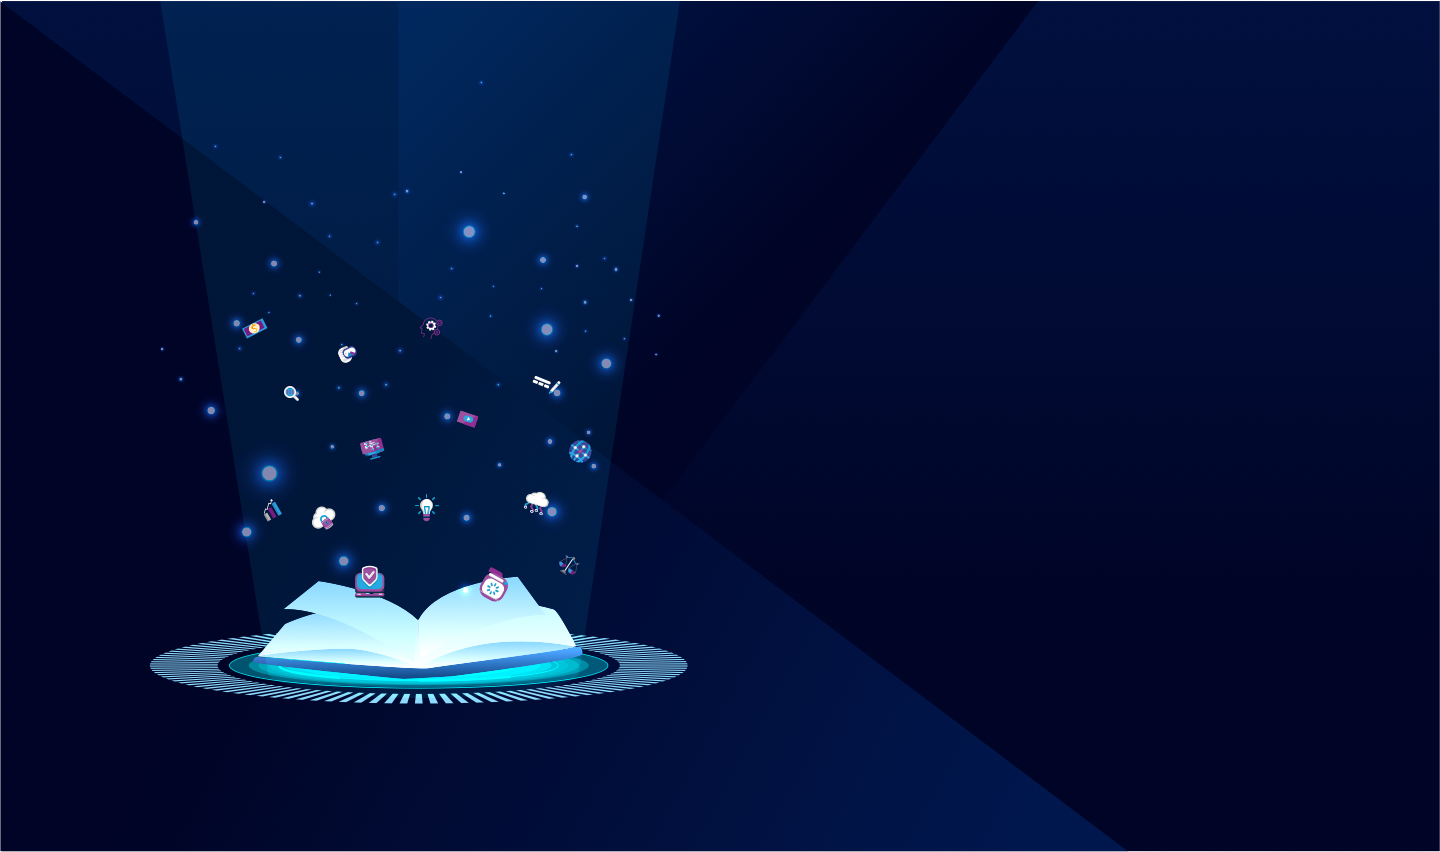
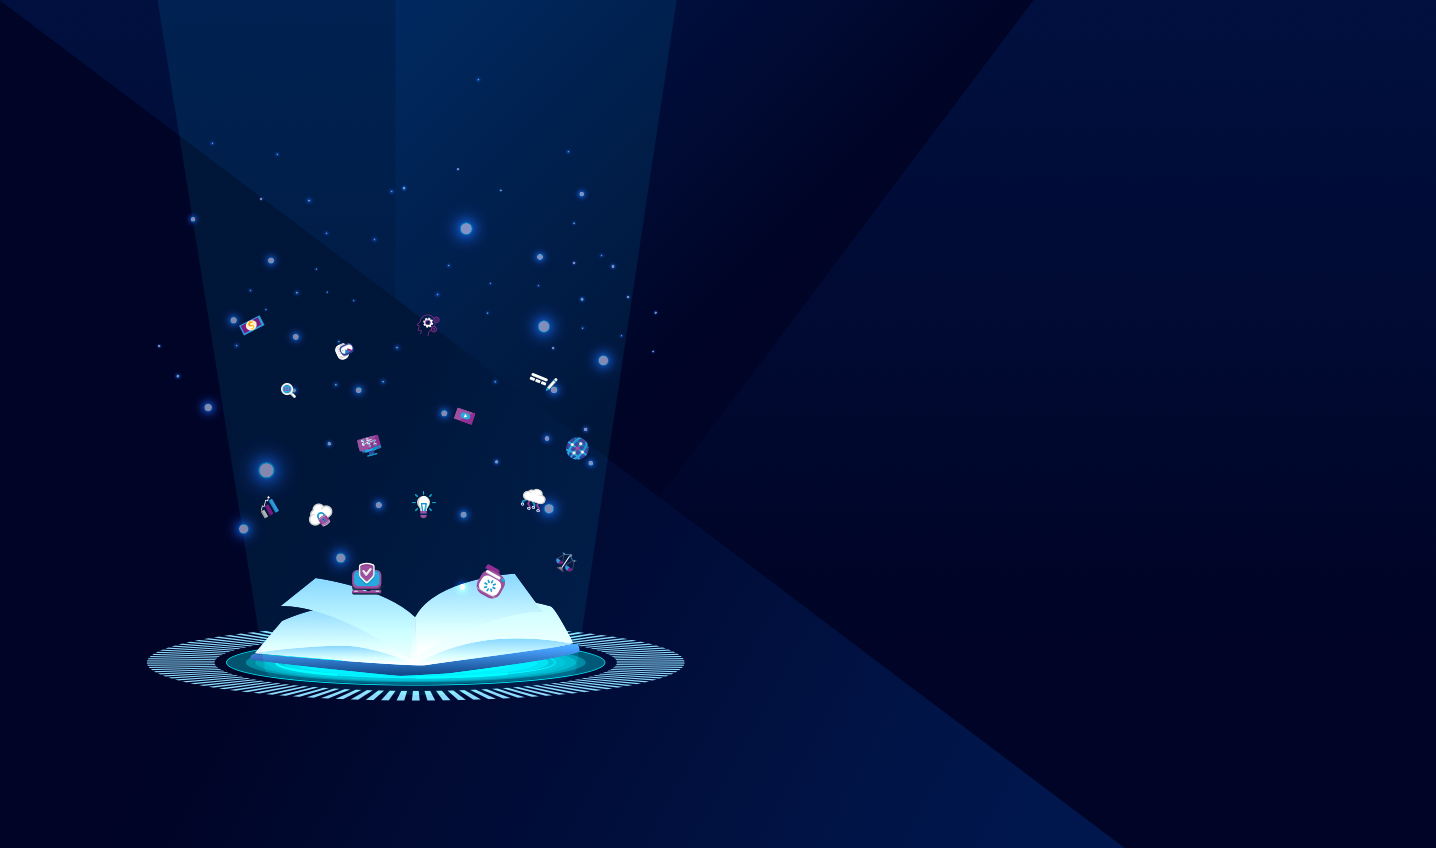
updates

diff --git a/styles/css.css b/styles/css.css
@@ -59,16 +59,6 @@ p {
   font-weight: normal;
 }
 
-.style1 {
-  font-size: 46px;
-  color: #fff;
-}
-
-.style2 {
-  font-size: 46px;
-  color: #FFA200;
-}
-
 .book_desc {
   text-align: center;
 }
@@ -187,7 +177,7 @@ p {
   background-attachment: fixed;
   background-size: cover;
   display: flex;
-  justify-content: flex-end;
+  justify-content: center;
   align-items: center;
 }
 
@@ -196,11 +186,11 @@ p {
 }
 
 .landing .container {
-  padding: 100px;
+  width: 80%;
+  padding: 100px 0;
   display: flex;
   flex-direction: column;
-  width: 45%;
-  margin-right: 5%;
+  align-items: center;
   flex-wrap: wrap;
 }
 
@@ -208,22 +198,26 @@ p {
   text-align: center;
   color: #f9f9f9;
   text-shadow: 2px 2px 8px #000000;
+  font-size: 36px;
   line-height: 72px;
+  max-width: 900px;
 }
 
 .email_grab {
-  align-self: center;
+  align-self: flex-end;
   display: flex;
   flex-direction: column;
   align-items: center;
+  padding: 50px;
+  margin-top: 50px;
 }
 
 .email_grab p {
   color: #fff;
   text-align: center;
-  font-size: 18px;
+  font-size: 24px;
   letter-spacing: 1px;
-  margin: 24px 0;
+  margin-bottom: 24px;
 }
 
 .email_input {
@@ -241,6 +235,8 @@ p {
 
 .email_input input[type="email"] {
   font-size: 16px;
+  /* background: rgba(255, 255, 255, 0.2);
+  color: #fff; */
 }
 
 .email_input button {
@@ -309,6 +305,10 @@ p {
   margin-bottom: 50px;
 }
 
+.team .title h2 {
+  margin-bottom: 25px;
+}
+
 .team .title img {
   width: 100%;
 }
@@ -335,6 +335,10 @@ p {
 .author_img img {
   width: 100%;
   border-radius: 100%;
+  box-shadow: 2px 2px 16px rgba(0, 0, 0, .1);
+}
+
+.author .book_desc img {
   box-shadow: 2px 2px 16px rgba(0, 0, 0, .1);
 }
 
@@ -581,16 +585,25 @@ p {
   align-items: center;
 }
 
+.buylink {
+  text-decoration: none;
+}
+
 .buy {
   background-color: #000;
   margin-top: 24px;
   padding: 12px;
-  width: 200px;
+  width: 240px;
   border-radius: 24px;
   color: #fff;
   display: flex;
   justify-content: center;
   box-shadow: 2px 8px 10px rgba(0, 0, 0, .5);
+  font-family: "Lato", Arial, Helvetica, sans-serif;
+}
+
+.buy img {
+  margin-left: 6px;
 }
 
 .buy:hover {
@@ -858,15 +871,22 @@ p {
 }
 
 .review .sidebar .reviewer {
-    margin: 24px;
-    padding: 24px;
+    display: flex;
+    flex-direction: column;
+    align-items: center;
+    margin: 25px;
+    padding: 50px 25px;
     background-color: #f9f9f9;
+}
+
+.review .sidebar .reviewer h2 {
+  margin-bottom: 24px;
 }
 
 .review .sidebar .author_img {
   width: 160px;
   height: 160px;
-  margin: 24px auto;
+  margin: 0;
 }
 
 .review .sidebar .author_img img {
@@ -998,13 +1018,8 @@ p {
     line-height: 42px;
   }
 
-  .style1, .style2 {
-    font-size: 28px;
-    letter-spacing: 0;
-  }
-
   .email_grab {
-    width: 100%;
+    width: calc(100% - 100px);
   }
 
   .email_input input {
@@ -1086,11 +1101,6 @@ p {
     line-height: 54px;
   }
 
-  .style1, .style2 {
-    font-size: 36px;
-    letter-spacing: 0;
-  }
-
   .featured_book {
     flex-direction: column;
     min-width: 250px;
@@ -1160,6 +1170,11 @@ p {
   .description .top {
     margin-bottom: 0;
   }
+
+  .email_grab {
+    background: rgba(0,0,0,0.5);
+    box-shadow: 2px 2px 16px rgba(0, 0, 0, .1);
+  }
 }
 
 @media screen and (max-width: 1200px) {
@@ -1172,6 +1187,10 @@ p {
     width: 100%;
     margin-right: 0;
     padding: 12%;
+  }
+
+  .email_grab {
+    align-self: center;
   }
 
 }

diff --git a/howtobeacap.html b/howtobeacap.html
@@ -38,9 +38,9 @@
           <div class="cover_img">
             <img src="./images/cover_howtobeacap.jpg" alt="How to Be a Capitalist Without Any Capital by Nathan Latka Book Cover" />
           </div>
-          <a href="https://www.amazon.com/How-Capitalist-Without-Any-Capital/dp/052553444X" target="_blank">
+          <a class="buylink" href="https://www.amazon.com/How-Capitalist-Without-Any-Capital/dp/052553444X" target="_blank">
             <div class="buy">
-              <img src="./images/amazonwhite.png" alt="Amazon" />
+              BUY NOW AT <img src="./images/amazonwhite.png" alt="Amazon" />
             </div>
           </a>
         </div>
@@ -163,7 +163,7 @@
             </div>
             <!-- reviewer start div-->
             <div class="reviewer">
-
+              <h2>Reviewed by</h2>
               <div class="author_img">
                 <img src="./images/linkedin_parth.jpeg" alt="Parth Detroja Photo" />
               </div>
@@ -235,9 +235,9 @@
       <!-- subsection end div -->
       </div>
 
-    <a href="https://www.amazon.com/How-Capitalist-Without-Any-Capital/dp/052553444X" target="_blank">
+    <a class="buylink" href="https://www.amazon.com/How-Capitalist-Without-Any-Capital/dp/052553444X" target="_blank">
       <div class="buy">
-       <img src="./images/amazonwhite.png" alt="Amazon" />
+       BUY NOW AT <img src="./images/amazonwhite.png" alt="Amazon" />
       </div>
     </a>
 

diff --git a/index.html b/index.html
@@ -33,7 +33,7 @@
 
   <section class="landing">
     <div class="container">
-      <h1><span class="style1">Book Highlights</span> and <span class="style1">Recommendations</span> for <span class="style2">Tech Professionals</span></h1>
+      <h1>Book Highlights and Recommendations for Tech Professionals</h1>
       <div class="email_grab">
         <p>Get notified when new books are added.</p>
         <div class="email_input">

diff --git a/aisuperpowers.html b/aisuperpowers.html
@@ -150,6 +150,7 @@
           <img src="./images/rating_8.png" alt="Rating 8" />
         </div>
         <div class="reviewer">
+          <h2>Reviewed by</h2>
           <div class="author_img">
             <img src="./images/linkedin_parth.jpeg" alt="Parth Detroja Photo" />
           </div>

diff --git a/blackswan.html b/blackswan.html
@@ -150,6 +150,7 @@
           <img src="./images/rating_8.png" alt="Rating 8" />
         </div>
         <div class="reviewer">
+          <h2>Reviewed by</h2>
           <div class="author_img">
             <img src="./images/linkedin_parth.jpeg" alt="Parth Detroja Photo" />
           </div>

diff --git a/blink.html b/blink.html
@@ -150,6 +150,7 @@
           <img src="./images/rating_8.png" alt="Rating 8" />
         </div>
         <div class="reviewer">
+          <h2>Reviewed by</h2>
           <div class="author_img">
             <img src="./images/linkedin_parth.jpeg" alt="Parth Detroja Photo" />
           </div>

diff --git a/honesttruth.html b/honesttruth.html
@@ -150,6 +150,7 @@
           <img src="./images/rating_8.png" alt="Rating 8" />
         </div>
         <div class="reviewer">
+          <h2>Reviewed by</h2>
           <div class="author_img">
             <img src="./images/linkedin_parth.jpeg" alt="Parth Detroja Photo" />
           </div>

diff --git a/misbehaving.html b/misbehaving.html
@@ -150,6 +150,7 @@
           <img src="./images/rating_8.png" alt="Rating 8" />
         </div>
         <div class="reviewer">
+          <h2>Reviewed by</h2>
           <div class="author_img">
             <img src="./images/linkedin_parth.jpeg" alt="Parth Detroja Photo" />
           </div>

diff --git a/outliers.html b/outliers.html
@@ -150,6 +150,7 @@
           <img src="./images/rating_8.png" alt="Rating 8" />
         </div>
         <div class="reviewer">
+          <h2>Reviewed by</h2>
           <div class="author_img">
             <img src="./images/linkedin_parth.jpeg" alt="Parth Detroja Photo" />
           </div>

diff --git a/predictablyirrational.html b/predictablyirrational.html
@@ -150,6 +150,7 @@
           <img src="./images/rating_8.png" alt="Rating 8" />
         </div>
         <div class="reviewer">
+          <h2>Reviewed by</h2>
           <div class="author_img">
             <img src="./images/linkedin_parth.jpeg" alt="Parth Detroja Photo" />
           </div>

diff --git a/signalsaretalking.html b/signalsaretalking.html
@@ -150,6 +150,7 @@
           <img src="./images/rating_8.png" alt="Rating 8" />
         </div>
         <div class="reviewer">
+          <h2>Reviewed by</h2>
           <div class="author_img">
             <img src="./images/linkedin_parth.jpeg" alt="Parth Detroja Photo" />
           </div>

diff --git a/zerotoone.html b/zerotoone.html
@@ -149,6 +149,7 @@
           <img src="./images/rating_8.png" alt="Rating 8" />
         </div>
         <div class="reviewer">
+          <h2>Reviewed by</h2>
           <div class="author_img">
             <img src="./images/linkedin_parth.jpeg" alt="Parth Detroja Photo" />
           </div>
